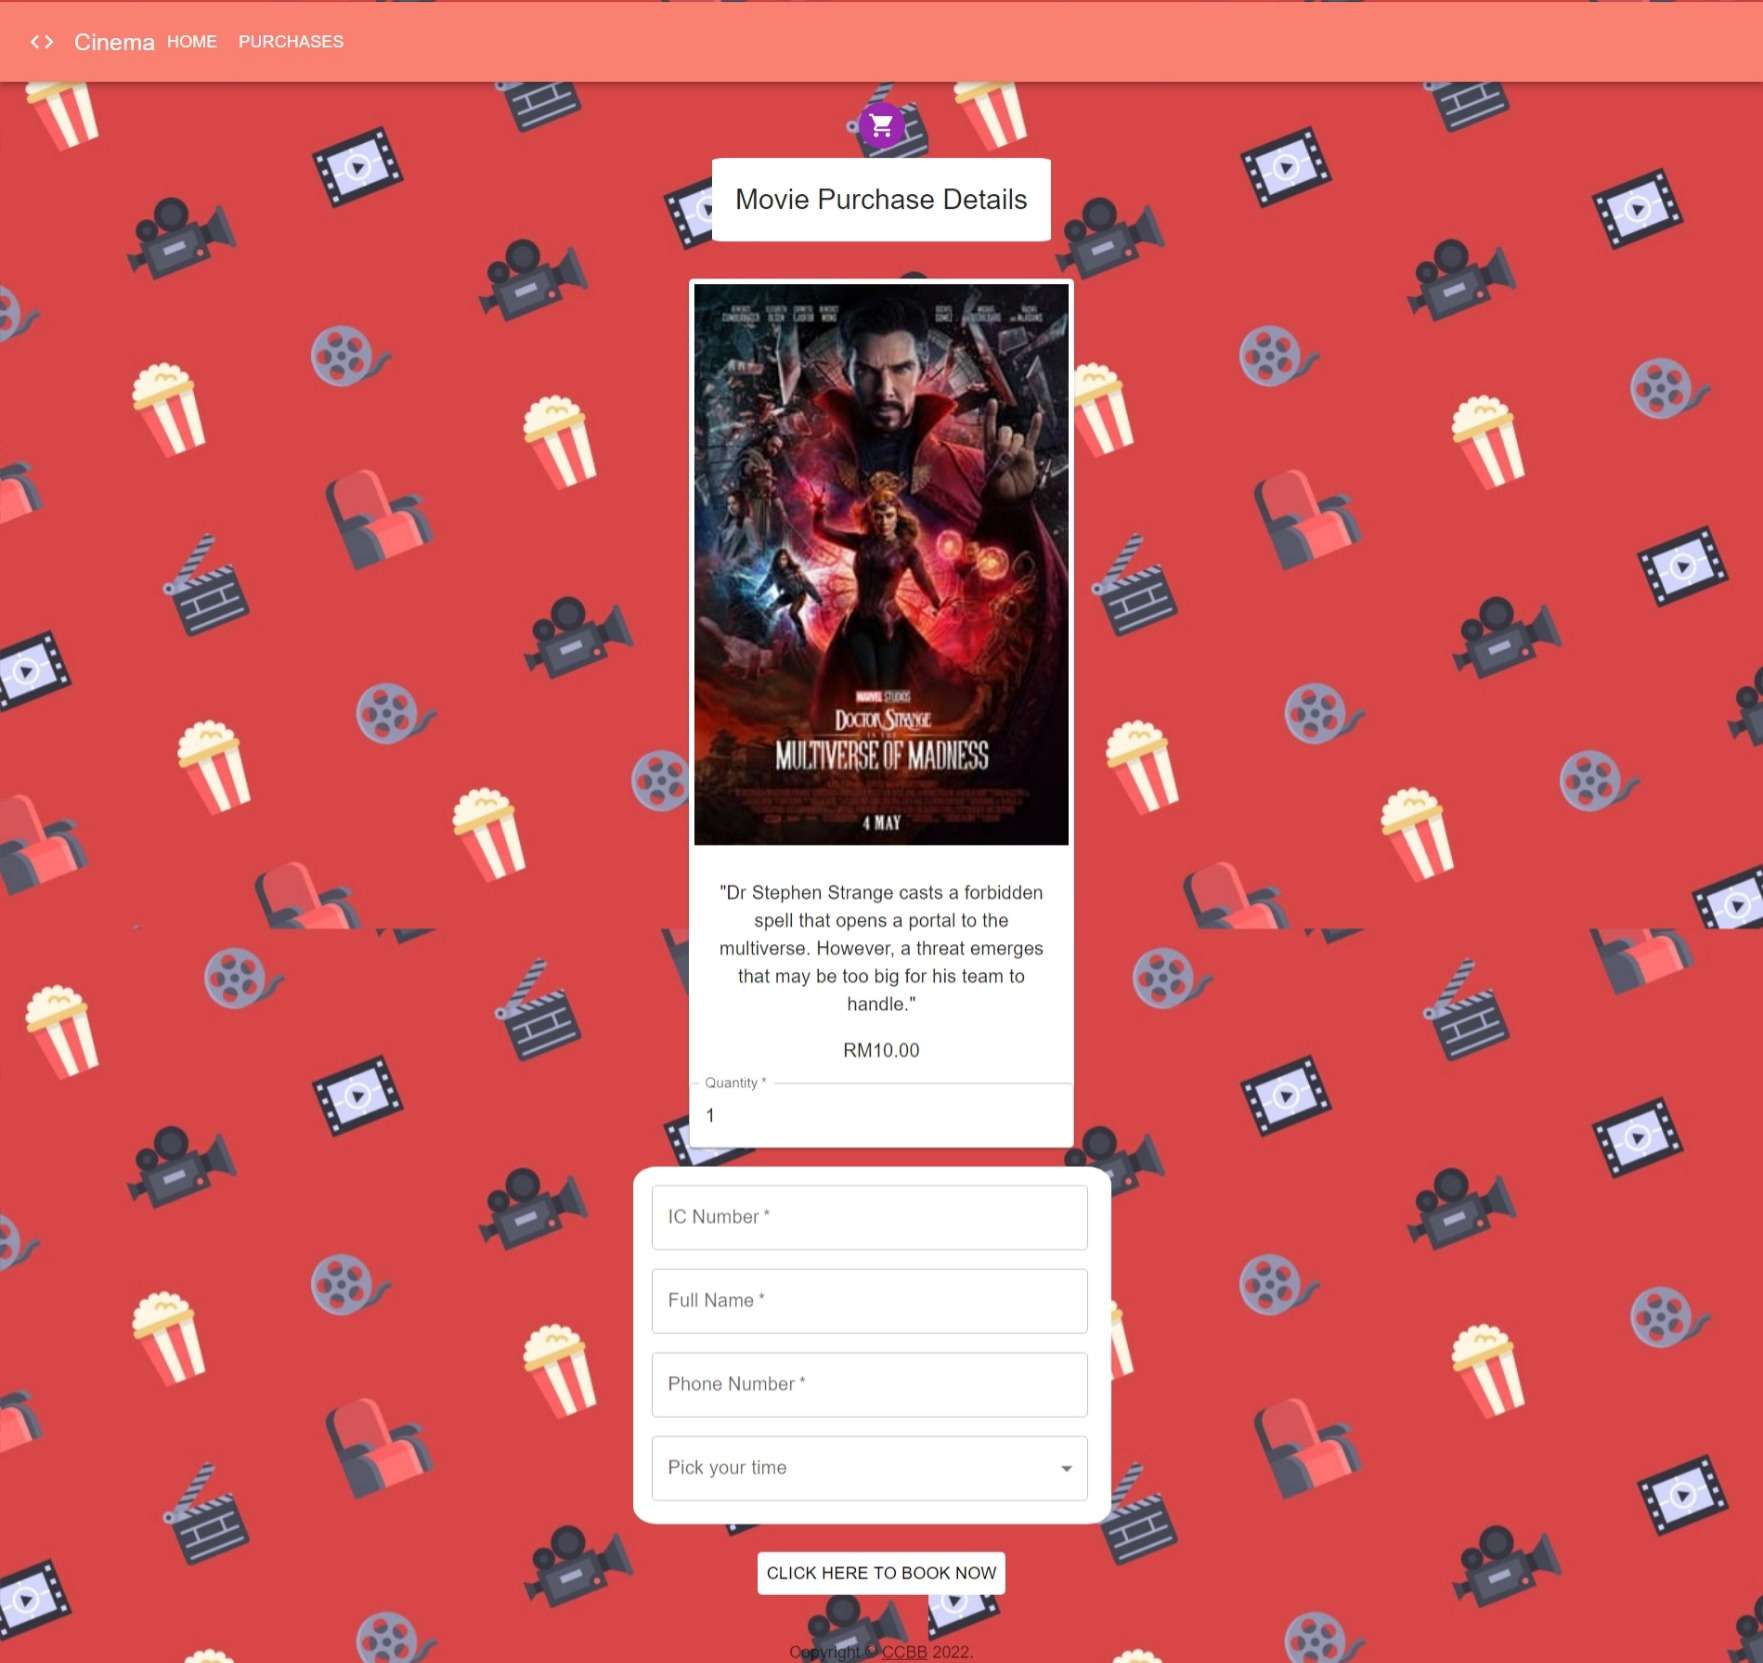
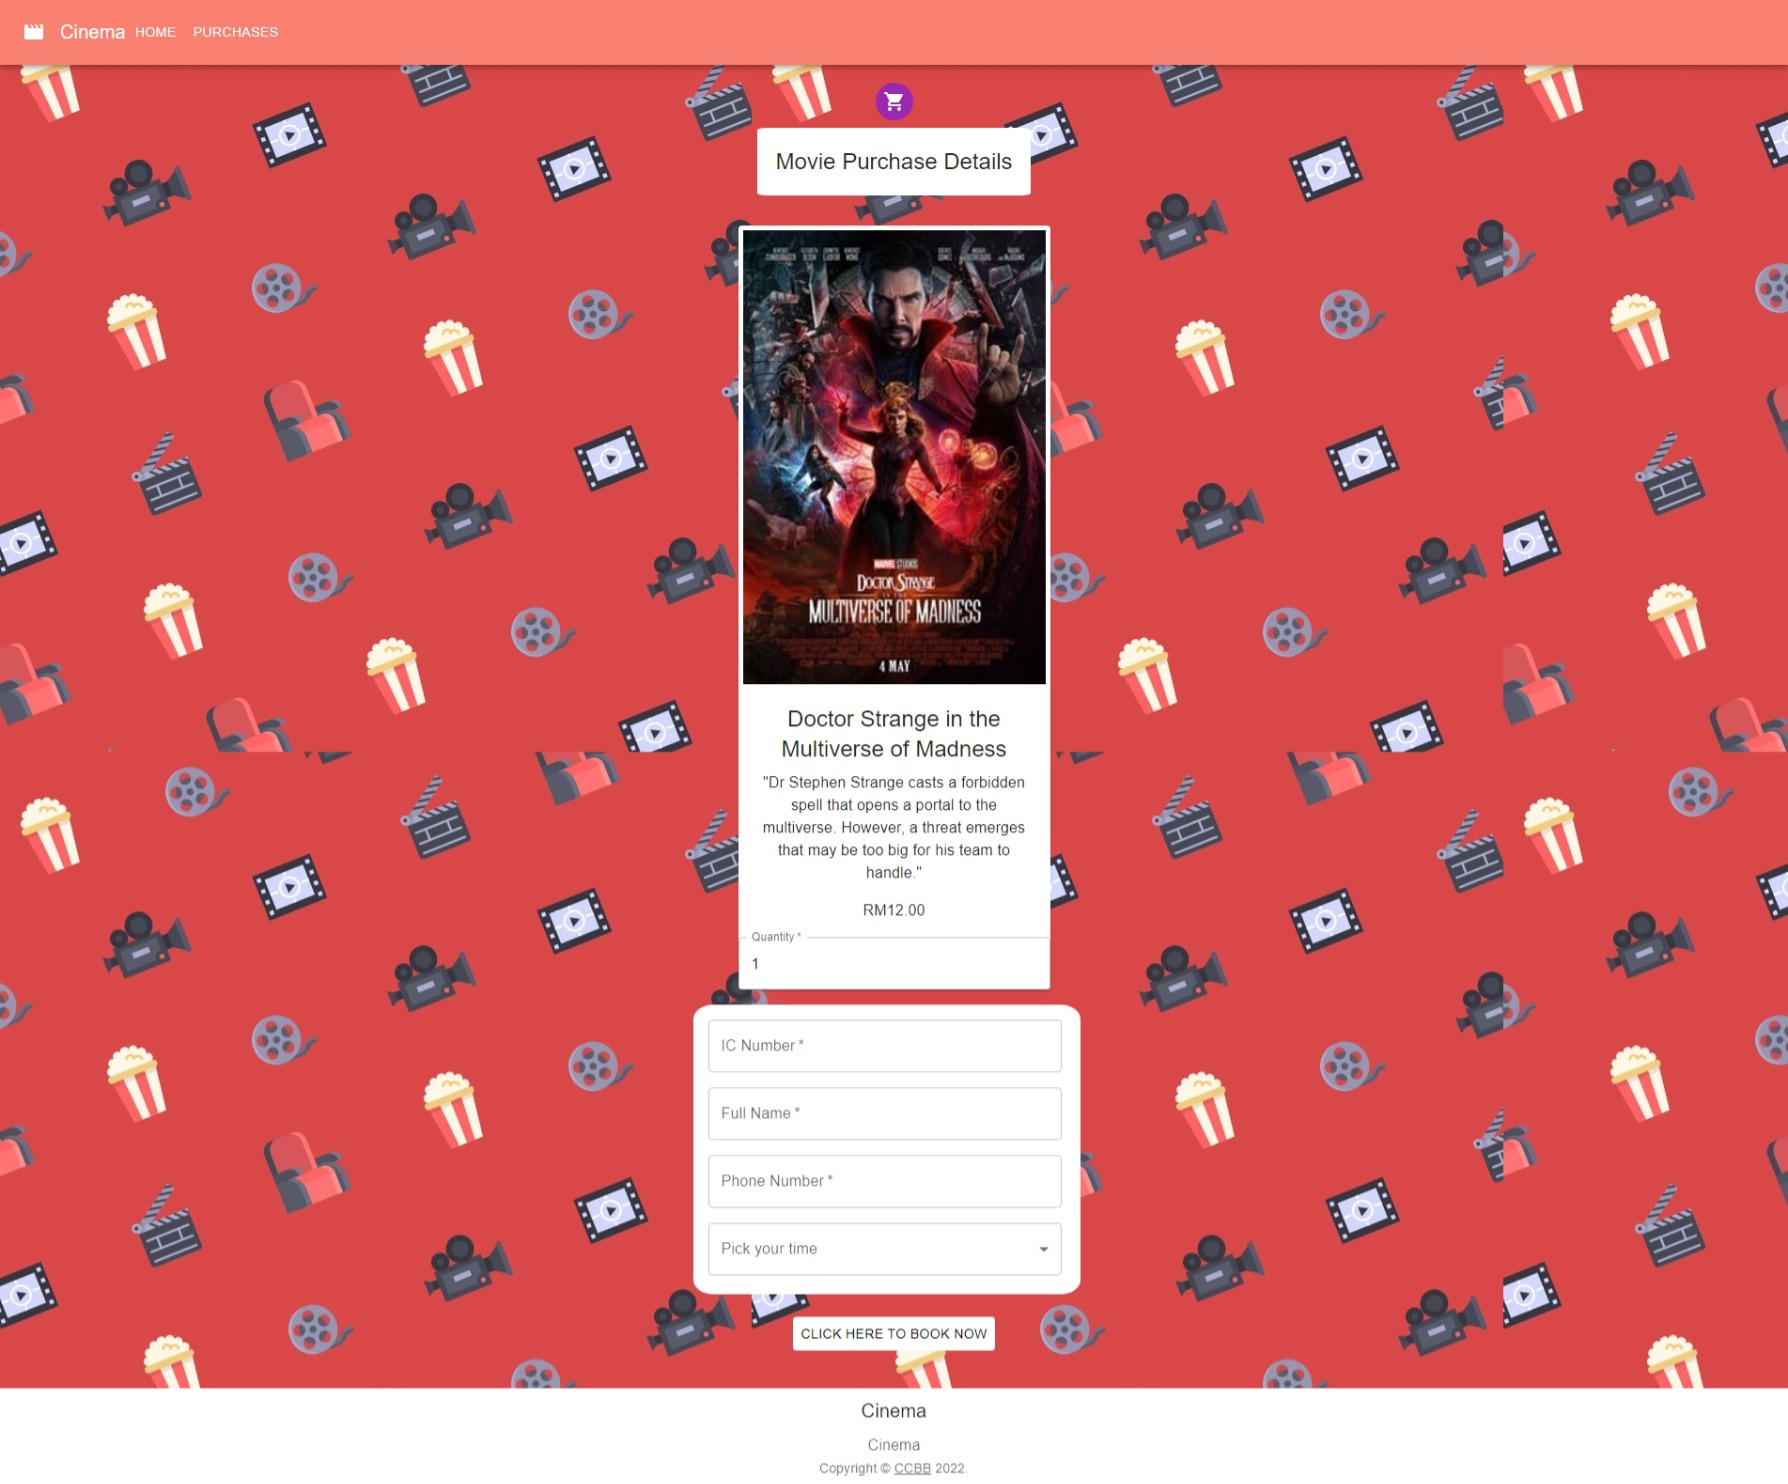
Modify purchaseform style, change home/form/list demo image

diff --git a/client/src/components/PurchaseForm/PurchaseForm.js b/client/src/components/PurchaseForm/PurchaseForm.js
@@ -9,7 +9,6 @@ import LocalGroceryStoreIcon from '@mui/icons-material/LocalGroceryStore';
 import Typography from '@mui/material/Typography';
 import Container from '@mui/material/Container';
 import { createTheme, ThemeProvider } from '@mui/material/styles';
-import Copyright from '../Copyright/Copyright';
 import { Card, CardMedia, CardContent, Select } from '@mui/material';
 import { useLocation, useNavigate } from 'react-router-dom';
 import Navigation from '../Navigation/Navigation';
@@ -17,6 +16,7 @@ import FormattedMoney from '../Formatted/FormattedMoney';
 import MenuItem from '@mui/material/MenuItem';
 import FormControl from '@mui/material/FormControl';
 import InputLabel from '@mui/material/InputLabel';
+import Footer from '../Footer/Footer';
 
 <link rel="stylesheet" href="index.css"></link>
 
@@ -129,14 +129,15 @@ const PurchaseForm = () => {
                                     sx={{
                                         // 16:9
                                         padding: '5px',
-                                        height: '100%'
+                                        maxHeight: '100%',
+                                        maxWidth: '100%'
                                     }}
                                     src={`${process.env.REACT_APP_API_URL}/storage/movie/image/` + item.movie.poster}
-                                    alt={item.movie.description}
+                                    alt={item.movie.title}
                                 />
                                 <CardContent sx={{ flexGrow: 1 }}>
                                     <Typography gutterBottom variant="h5" component="h2">
-                                        {item.movie.name}
+                                        {item.movie.title}
                                     </Typography>
                                     <Typography>
                                         {item.movie.description}
@@ -224,7 +225,7 @@ const PurchaseForm = () => {
                                         name="movie_time_id"
                                         labelId="movie_time"
                                         id="movie_time"
-                                        defaultValue={ item.movie_time ? item.movie_time.id : '' }
+                                        defaultValue={item.movie_time ? item.movie_time.id : ''}
                                         label="movie_time"
                                         required
                                     >
@@ -259,8 +260,8 @@ const PurchaseForm = () => {
 
                     </Box>
                 </Box>
-                <Copyright sx={{ mt: 5 }} />
             </Container>
+            <Footer />
         </ThemeProvider>
     );
 }
